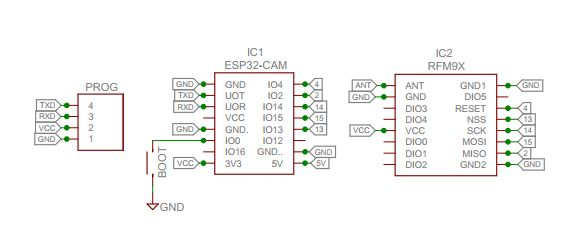
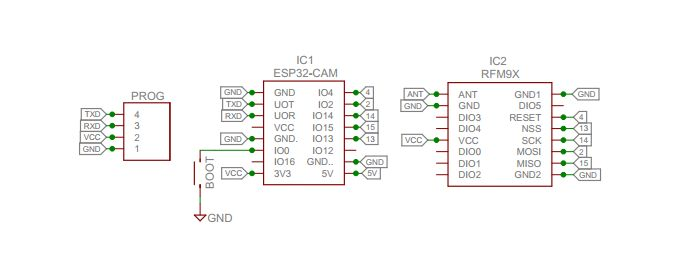
Add post

Changed region(s): [[0.0312, 0.2, 0.9671, 0.8571]]

diff --git a/_posts/2021-11-27-StuartCAM-ESP32CAM-Getting-the-SD-to-Work.md b/_posts/2021-11-27-StuartCAM-ESP32CAM-Getting-the-SD-to-Work.md
@@ -1,0 +1,231 @@
+---
+layout: post
+title: "StuartCAM ESP32CAM Getting the SD card to Work"
+date: "2021-11-27"
+---
+
+The ESP32CAM has an SD card but unfortunately it uses the same pins that the SPI interface needs for the LoRa device. So there are going to be conflicts and whilst I initially had it working, with the image transfer,  after a few deep sleeps and wake ups the SD card would stop initialising. It had to be removed or otherwise powered down and put back in to recover. 
+
+Clearly it would be helpful if the images taken were also saved on the ESP32CAM SD card.
+
+### UHF SX127X LoRa device
+
+This is the original circuit I had used for StuartCAM with SX127X;
+
+<br>
+<p align="center">
+  <img width="450"  src="/images/ESP32CAM_LoRa_Connections.jpg">
+</p>
+<br>
+
+When we look at the functions of the pins that the ESP32 uses on the SD\_MMC interface to access the SD we see;
+
+<table>
+<thead>
+<tr>
+  <th>ESP32CAM Pin</th>
+  <th>SD_MMC Function</th>
+  <th>SPI LoRa Function</th>
+</tr>
+</thead>
+<tbody>
+
+<tr>
+  <td>2</td>
+  <td>DATA0</td>
+  <td>MOSI</td>
+</tr>
+
+<tr>
+  <td>4</td>
+  <td>DATA1 (not used)</td>
+  <td>NRESET</td>
+</tr>
+
+<tr>
+  <td>12</td>
+  <td>DATA2 (not used)</td>
+  <td>not used</td>
+</tr>
+
+<tr>
+  <td>13</td>
+  <td>DATA3 (not used)</td>
+  <td>NSS</td>
+</tr>
+
+<tr>
+  <td>14</td>
+  <td>CLK</td>
+  <td>SCK</td>
+</tr>
+
+<tr>
+  <td>15</td>
+  <td>CMD</td>
+  <td>MISO</td>
+</tr>
+
+<tr>
+  <td>16</td>
+  <td>not used</td>
+  <td>not used</td>
+</tr>
+
+</tbody>
+</table>
+
+The SD\_MMC is used in 1 pin mode so that data or commands are clocked via DATA0 only, DATA1,DATA2,DATA3 are not used. To set the SD\_MMC to this 1 bit mode you initialise it with this function;
+
+SD_MMC.begin("/sdcard", true));
+
+You can see from the table above that the clock pin for the SD\_MMC is the same as the SPI SCK pin so when the SPI for the LoRa device gets used the SD card may well receive spurious commands that confuse it; so perhaps that's why it locks up after a few cycles. 
+
+### GPIO14 SD-MMC CLK
+
+Could we keep the SD\_MMC CLK pin on GPIO14 clear of activity so the SD card behaves more reliably ?
+
+GPIO4 on the ESP32CAM is used by the white LED, so to free up this pin for the LoRa device I removed its switching transistor, see picture below. 
+
+<br>
+<p align="center">
+  <img width="250"  src="/images/ESP32CAM_GPIO4_Transistor.jpg">
+</p>
+<br>
+
+
+We can now assign GPIO4 for the LoRa device SPI SCK and the SD\_MMC CLK pin (on GPIO14) is now clear of interference. I made this change on my stripboard setup and loaded the code up. 
+
+Success ! 
+
+The picture transfer code was run for some 350 wake ups and saved the image to SD card every time and then successfully transfered the image with LoRa as before. Progress.
+
+### GPIO12 and GPIO16
+
+There are now two unused pins, GPIO12 and GPIO16. GPIO16 is the PSRAM select for the ESP32CAM and whilst we could use it for the LoRa device picture size would then be limited to 800x600, larger images require the use of the PSRAM. 
+
+GPIO12 can be used but we need to be sure to leave it floating during programming or reset as its used internally by the ESP32 to sense the  correct voltage for the Flash. An external pull-up of 47K or higher seems to be OK. So we could use it for the LoRa devices NSS as long as we don't put a low value pull up resistor on this pin. I did try 10K, which would be a normal value for an SPI CS pull-up resistor but it produces an ESP32 Flash error on start-up, so for now I removed the pull-up.
+
+MISO was moved from GPIO15 (SD\_MMC CMD) to GPIO13 which is SD\_MMC DATA3 which should be unused.
+
+The pinouts are now, with NRESET not connected;
+
+NSS 12, SCK 4, MISO 13, MOSI 2 
+
+### LoRa device NRESET
+
+Can we get NRESET working, as that would guard against potential lock-ups of the LoRa device ? 
+
+When the ESP32 wakes up at each picture taking the LoRa device is set-up and there should ideally be a short pulse on NRESET before the actual set up. This single pulse on the SD\_MMC CLK pin (GPIO14) might not be an issue so I tried it.
+
+More Success ! 
+
+The picture taking ran for 125 pictures with no SD card lock-ups. 
+Note that we are now not using GPIO15, in part this is deliberate since looking to the future the SX128X and SX126X devices need an input pin to read RFBUSY on those devices. 
+
+So if we put the LoRa device NSS on GPIO12 we can leave pin 14 (which is the SD\_MMC CLK) alone. 
+
+### GPIO15 and NRESET
+
+In the specific case of the SX127X we can try and use GPIO15 for NRESET rather than GPIO14 as this would then leave the SD\_MMC CLK free of all potential clocks. GPIO15 is the SD\_MMC CMD pin and I was hoping the odd clock pulse on here would have no effect if the main SD\_MMC CLK pin was not running So that's what I tried tried next and;
+
+Even More Success !  
+
+All the required pins on the LoRa device being driven and the SD card seems to be happy too. 
+
+Here is the revised pin-out;
+
+<br>
+<p align="center">
+  <img width="450"  src="/images/ESP32CAM_LoRa_Connections_Revised.jpg">
+</p>
+<br>
+
+And the allocated pins are;
+
+<table>
+<thead>
+<tr>
+  <th>ESP32CAM Pin</th>
+  <th>SPI LoRa Function</th>
+</tr>
+</thead>
+<tbody>
+
+<tr>
+  <td>2</td>
+  <td>MOSI</td>
+</tr>
+
+<tr>
+  <td>4</td>
+  <td>SCK</td>
+</tr>
+
+<tr>
+  <td>12</td>
+  <td>NSS</td>
+</tr>
+
+<tr>
+  <td>13</td>
+  <td>MISO</td>
+</tr>
+
+<tr>
+  <td>14</td>
+  <td>not used</td>
+</tr>
+
+<tr>
+  <td>15</td>
+  <td>NRESET</td>
+</tr>
+
+<tr>
+  <td>16</td>
+  <td>not used</td>
+</tr>
+
+</tbody>
+</table>
+
+<br>
+
+## 2.4Ghz SX128X LoRa device
+
+So what happens when this new revised pin-out is tried on the SX128X ? The plan here would be to put NRESET on GPIO14 and RFBUSY on GPIO15. Although GPIO14 is the SD\_MMC CLK pin the single pulse on NRESET at start-up did not appear to cause problems when tested with the SX1278 set-up described above. 
+
+So I converted the SX127X sketch across to SX128X. With StuartCAM running in FLRC mode in my workshop, an 800x600 image was being transferred across to the receiver in around 670mS. Thats a packet around once every 1.7mS. Gosh thats quick.
+
+I left the transfer program running overnight and by morning around 6000 images had been taken and transferred.
+
+All images were received and stored OK on SD, the receiver was an Arduino DUE. However on the transmitter there was a corrupt image at number 2604. Then there were saved images up to 2623, which were also unreadable, and then there were no more images saved. The serial monitor log did not show any SD errors however, so the ESP32CAM thought the SD card was OK. 
+
+I re-formatted the SD cards and swapped them around between TX and RX. This time it was the receiver that had corrupt images after 2052 were saved, the 6,500 images on the transmitter SD were OK. So the failure was caused by the SD card, not a problem with NRESET on the transmitter.  
+
+The workaround for the SX128X if NRESET on the SD\_MMC CLK pin caused problems was to put a PCA9536 I2C IO expander on the program upload pins and use that device at start-up to reset the LoRa device, but it this workaround does not seem to be be necessary. 
+
+<br>
+
+## Extra Information
+
+I was reading this ESP32CAM tutorial;
+
+[https://randomnerdtutorials.com/esp32-cam-ai-thinker-pinout/](https://randomnerdtutorials.com/esp32-cam-ai-thinker-pinout/)
+
+And found this comment;
+
+"In order to free pin12 and pin13 (provided you wouldn’t need them for a very demanding SD card usage) you can modify ESP32-CAM fuses like this:
+(from Terminal window) $ espefuse.py –baud 115200 –port **your\_USB\_port\_name** set\_flash\_voltage 3.3V
+and then include in your Arduino code:
+SD\_MMC.begin(“/sd”, true);"
+
+So that might be worth a try one day.
+
+<br>
+
+
+### Stuart Robinson
+
+### November 2021
